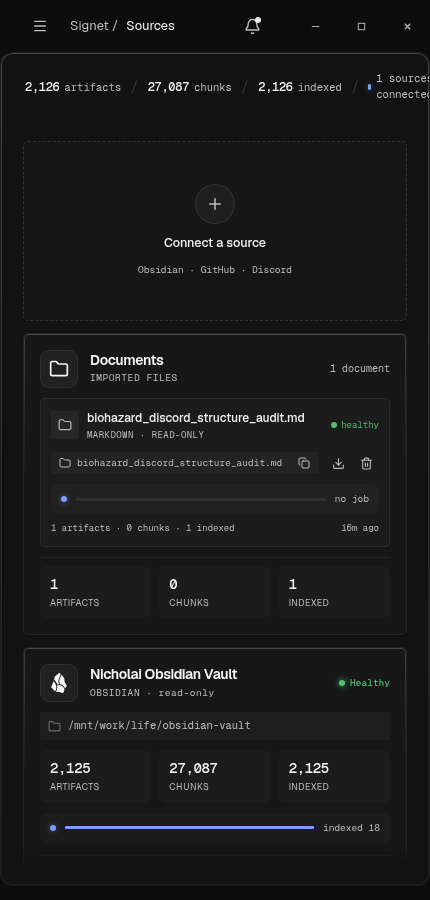
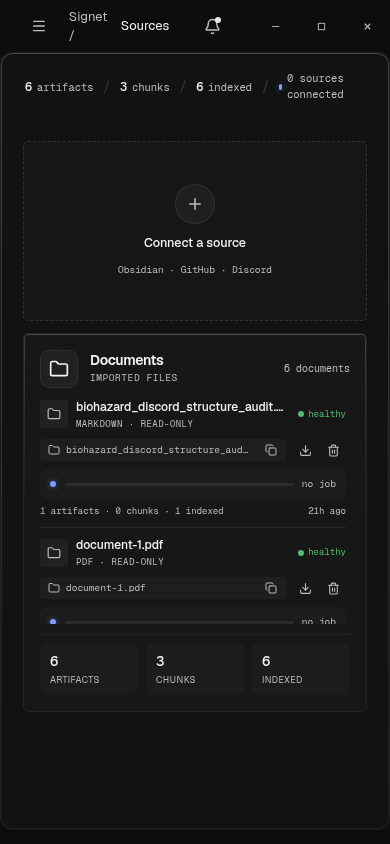
fix(dashboard): bound imported documents card (#1425)
Use a fixed-height Documents surface with a semantic internal list so imported files remain compact and independently scrollable while preserving existing row actions and aggregate stats.

Assisted-by: Hermes-Agent:gpt-5.6-luna

diff --git a/surfaces/dashboard/src/views/sources.tsx b/surfaces/dashboard/src/views/sources.tsx
@@ -108,9 +108,9 @@ function ImportedDocumentsCard({
 		<Surface
 			data-testid="imported-documents-card"
 			aria-label="Imported documents"
-			className="sig-src-card sig-keylight-src flex flex-col gap-2.5 p-4"
+			className="sig-src-card sig-keylight-src flex h-[clamp(360px,45vh,480px)] min-h-0 flex-col gap-2.5 p-4"
 		>
-			<div className="flex items-center gap-3">
+			<div className="flex shrink-0 items-center gap-3">
 				<span className="grid size-9.5 shrink-0 place-items-center rounded-[9px] border border-[oklch(1_0_0/0.06)] bg-[color-mix(in_oklch,var(--foreground)_5%,transparent)] text-foreground">
 					<Folder className="size-5" />
 				</span>
@@ -123,16 +123,17 @@ function ImportedDocumentsCard({
 				</span>
 			</div>
 
-			<div
-				className="flex max-h-[360px] flex-col gap-1.5 overflow-y-auto scrollbar-none"
+			<ul
+				aria-label="Imported documents"
+				className="min-h-0 flex-1 overflow-x-hidden overflow-y-auto overscroll-contain pr-1 scrollbar-none"
 				data-testid="imported-document-list"
 			>
 				{documents.map((source) => (
 					<ImportedDocumentRow key={source.id} source={source} onMutate={onMutate} />
 				))}
-			</div>
+			</ul>
 
-			<div className="grid grid-cols-3 gap-2 border-t border-[oklch(1_0_0/0.06)] pt-2 [html:not(.dark)_&]:border-[oklch(0_0_0/0.06)]">
+			<div className="grid shrink-0 grid-cols-3 gap-2 border-t border-[oklch(1_0_0/0.06)] pt-2 [html:not(.dark)_&]:border-[oklch(0_0_0/0.06)]">
 				<MiniStat value={totals.artifacts.toLocaleString()} label="artifacts" />
 				<MiniStat value={totals.chunks.toLocaleString()} label="chunks" />
 				<MiniStat value={totals.indexed.toLocaleString()} label="indexed" />
@@ -151,7 +152,10 @@ function ImportedDocumentRow({ source, onMutate }: { source: SignetSource; onMut
 	const format = typeof source.providerSettings?.format === "string" ? source.providerSettings.format : "document";
 
 	return (
-		<div className="flex min-w-0 flex-col gap-2 rounded-lg border border-[oklch(1_0_0/0.07)] bg-[color-mix(in_oklch,var(--foreground)_2.5%,transparent)] p-2.5 [html:not(.dark)_&]:border-[oklch(0_0_0/0.08)]">
+		<li
+			data-testid="imported-document-row"
+			className="flex min-w-0 flex-col gap-1.5 border-b border-[oklch(1_0_0/0.07)] py-2 first:pt-0 last:border-b-0 last:pb-0 [html:not(.dark)_&]:border-[oklch(0_0_0/0.08)]"
+		>
 			<div className="flex min-w-0 items-center gap-2">
 				<span className="grid size-7 shrink-0 place-items-center rounded-md bg-[color-mix(in_oklch,var(--foreground)_5%,transparent)] text-muted-foreground">
 					<Folder className="size-3.5" />
@@ -228,7 +232,7 @@ function ImportedDocumentRow({ source, onMutate }: { source: SignetSource; onMut
 					{error}
 				</span>
 			)}
-		</div>
+		</li>
 	);
 }
 

diff --git a/surfaces/dashboard/src/views/sources.test.tsx b/surfaces/dashboard/src/views/sources.test.tsx
@@ -228,6 +228,15 @@ describe("sources grouping", () => {
 		expect(documents.querySelectorAll('[aria-label="Re-index"]')).toHaveLength(0);
 		expect(documents.querySelectorAll('[aria-label="Snapshot"]')).toHaveLength(2);
 		expect(documents.querySelectorAll('[aria-label="Remove"]')).toHaveLength(2);
+		const list = documents.querySelector('[data-testid="imported-document-list"]');
+		if (!(list instanceof HTMLUListElement)) throw new Error("Imported document list not found");
+		expect(list.getAttribute("aria-label")).toBe("Imported documents");
+		expect(list.className).toContain("min-h-0");
+		expect(list.className).toContain("overflow-x-hidden");
+		expect(list.className).toContain("overflow-y-auto");
+		expect(list.className).toContain("pr-1");
+		expect(list.querySelectorAll('[data-testid="imported-document-row"]')).toHaveLength(2);
+		expect(documents.className).toContain("h-[clamp(360px,45vh,480px)]");
 		expect(documents.textContent).toContain("3 artifacts · 4 chunks · 5 indexed");
 		expect(mounted.container.querySelectorAll(".sig-src-card")).toHaveLength(2);
 		expect(mounted.container.textContent).toContain("Vault");
